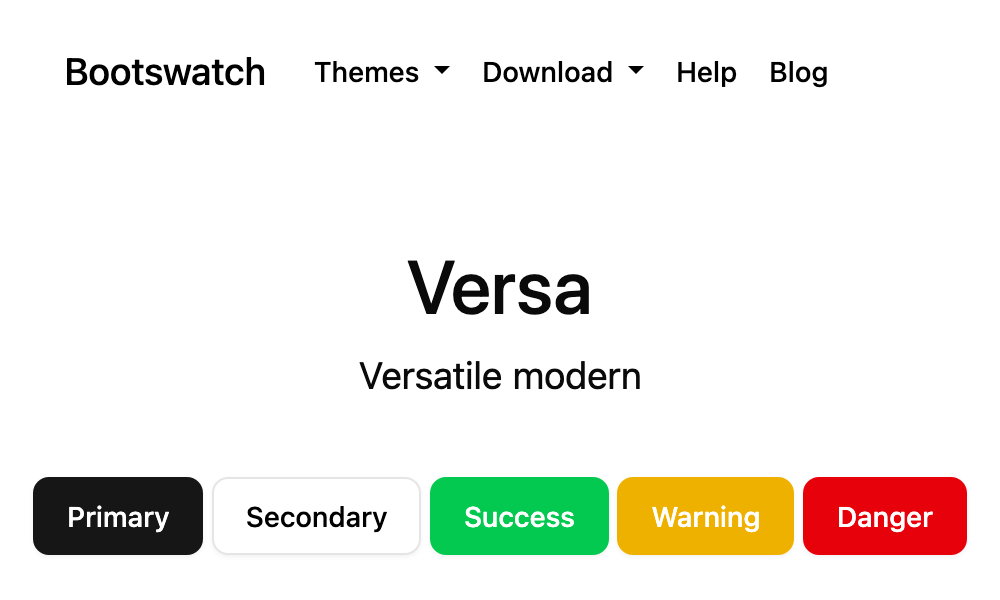
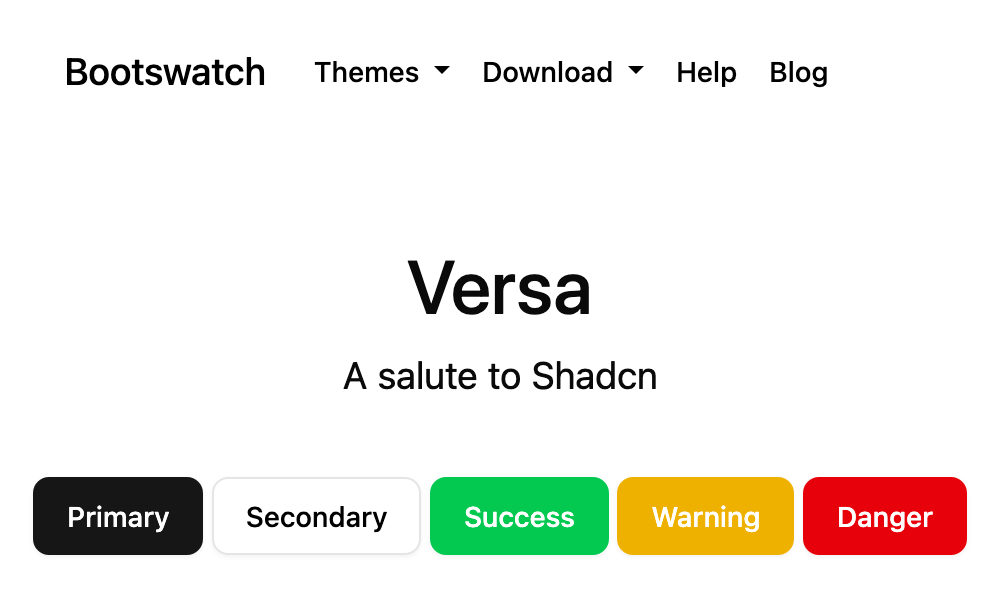
versa: update tagline

Changed region(s): [[0.341, 0.6, 0.651, 0.66]]

diff --git a/docs/index.html b/docs/index.html
@@ -909,7 +909,7 @@
               </div>
               <div class="options">
                 <h3>Versa</h3>
-                <p>Versatile modern</p>
+                <p>A salute to Shadcn</p>
                 <div class="btn-group"><a class="btn btn-primary" href="versa/">Preview</a></div>
                 <div class="btn-group">
                   <a class="btn btn-primary" href="5/versa/bootstrap.min.css" onclick="gtag('event', 'download', {'event_category': 'versa', 'event_label': 'bootstrap.min.css'});" download>Download</a>

diff --git a/docs/versa/index.html b/docs/versa/index.html
@@ -161,7 +161,7 @@
         <div class="row">
           <div class="col-lg-8 col-md-7 col-sm-6">
             <h1>Versa</h1>
-            <p class="lead">Versatile modern</p>
+            <p class="lead">A salute to Shadcn</p>
           </div>
           <div class="col-lg-4 col-md-5 col-sm-6">
             <div class="sponsor">
